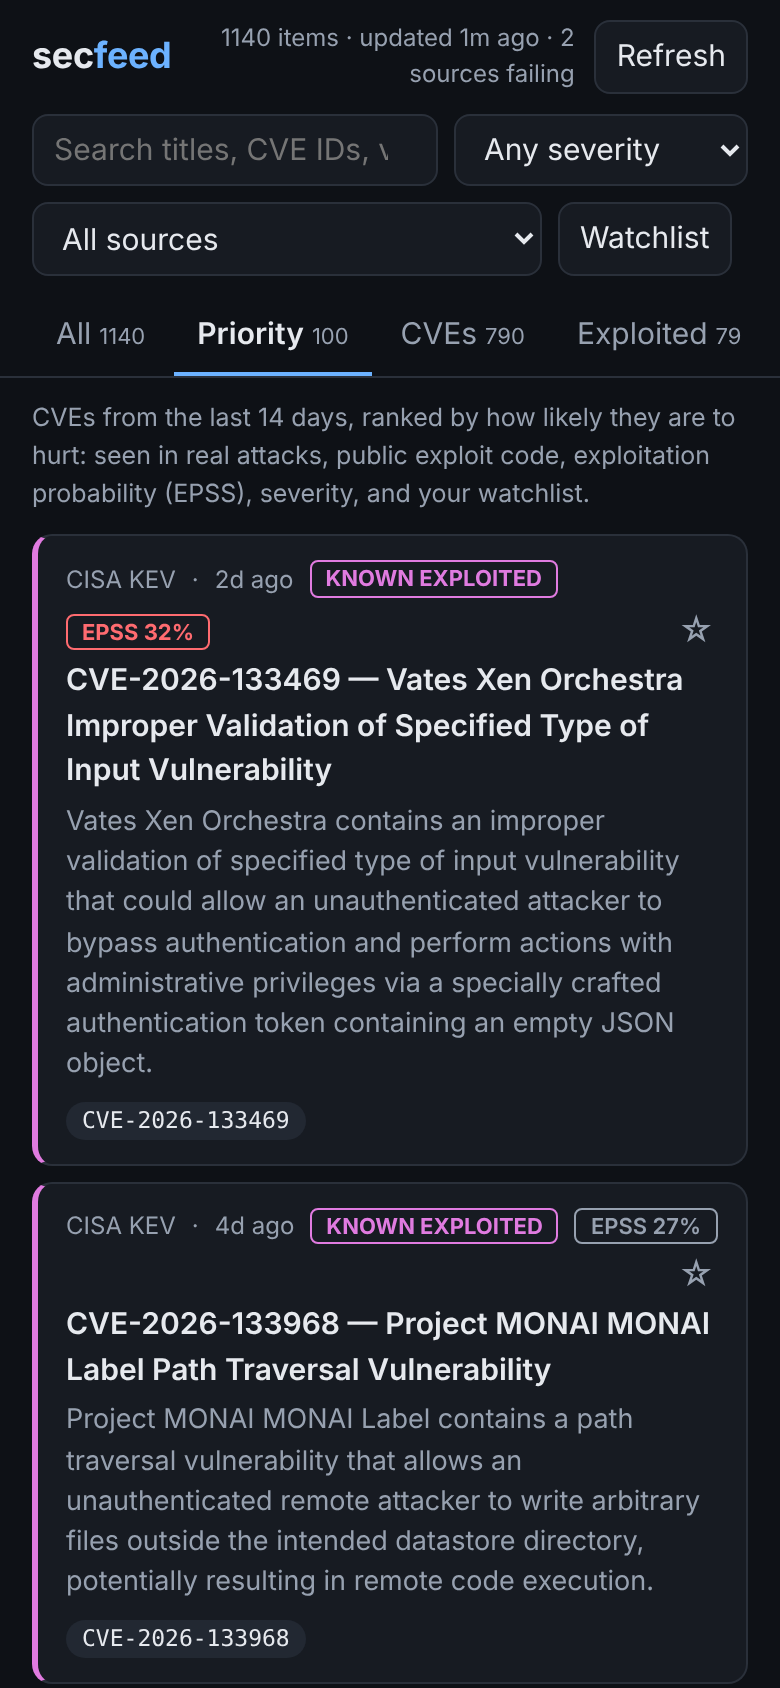
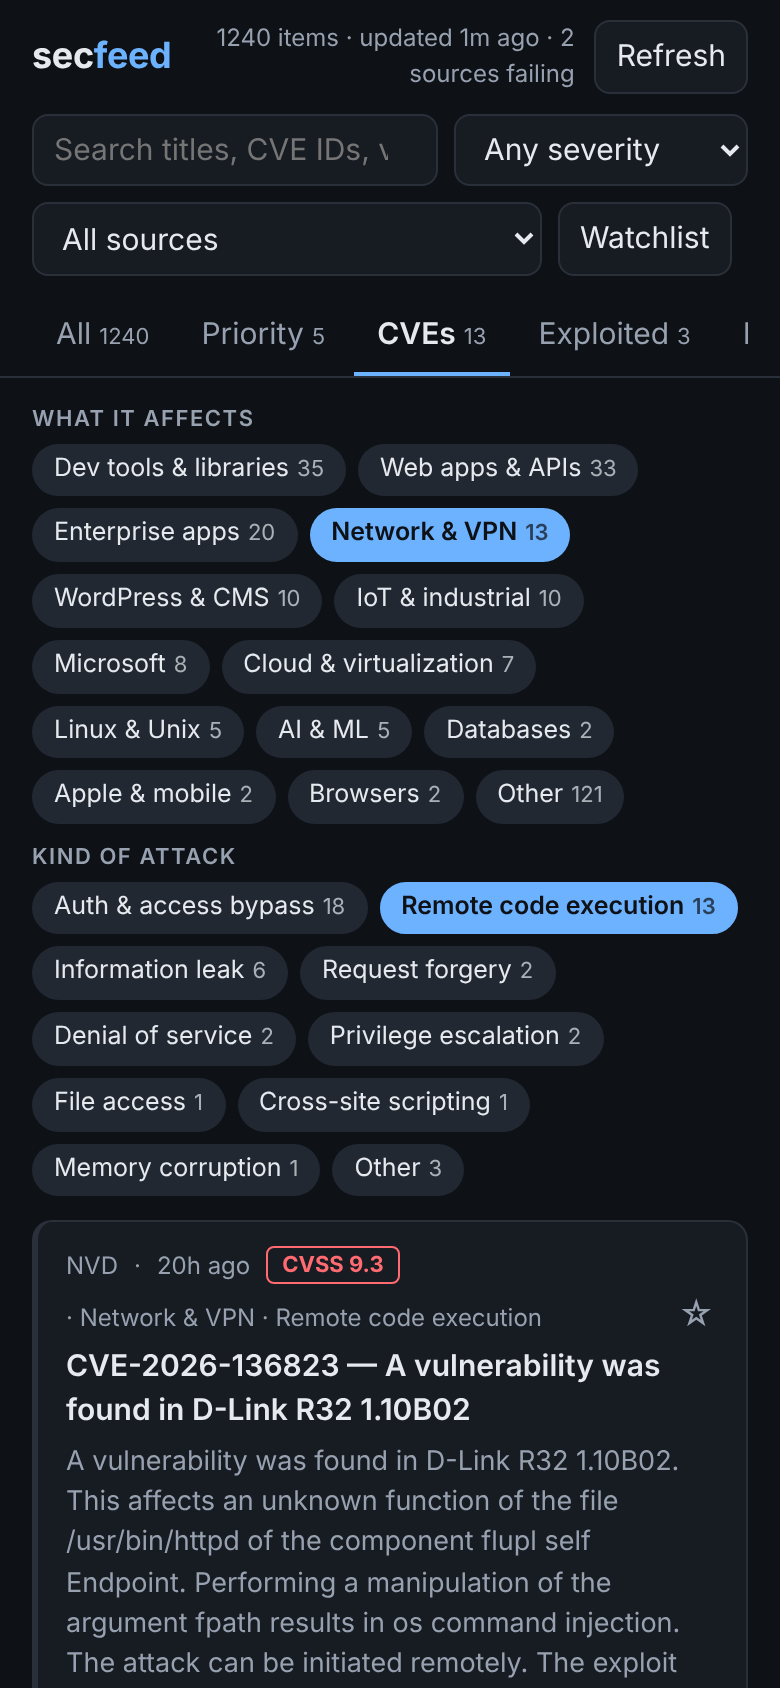
secfeed: category chips scroll sideways instead of wrapping
Claude-Session: https://claude.ai/code/session_01EsiyWuxK1Cvyt6E7zCTdGd

diff --git a/secfeed/web/index.html b/secfeed/web/index.html
@@ -96,7 +96,9 @@ article.read h2 a { color: var(--muted); }
 .star[aria-pressed=true] { color: var(--med); }
 .cats { display: flex; flex-direction: column; gap: 8px; margin: 0 0 12px; }
 .cats h3 { font-size: 11px; letter-spacing: 0.07em; text-transform: uppercase; color: var(--muted); margin: 0 0 4px; font-weight: 600; }
-.catrow { display: flex; gap: 6px; flex-wrap: wrap; }
+/* One swipeable line per row, so the list stays near the top on a phone. */
+.catrow { display: flex; gap: 6px; overflow-x: auto; scrollbar-width: none; padding-bottom: 2px; }
+.catrow .cat { white-space: nowrap; flex: none; }
 .cat { font-size: 12.5px; padding: 3px 10px; border-radius: 999px; background: var(--chip); border: 1px solid transparent; }
 .cat[aria-pressed=true] { background: var(--accent); color: var(--bg); font-weight: 600; }
 .cat .n { opacity: 0.7; margin-left: 4px; font-size: 11px; }
